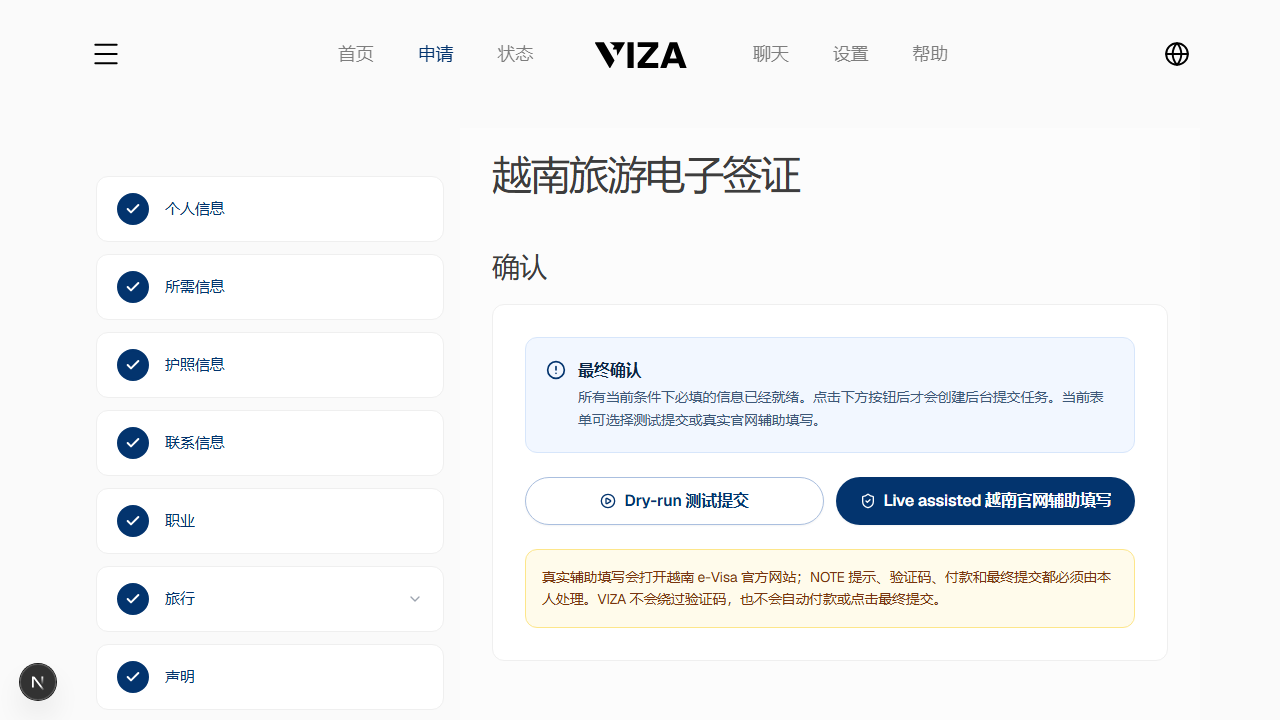
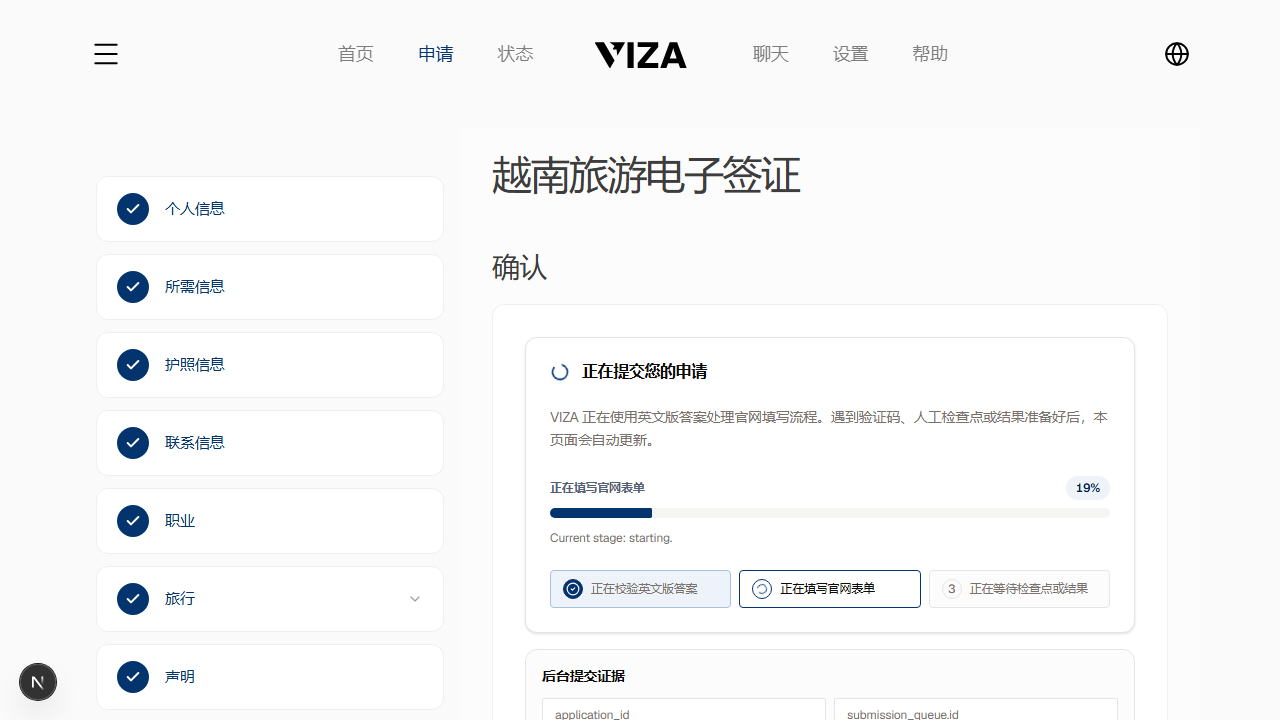
Implement Fr

diff --git a/viza-be/submission-service/src/vietnam/run.ts b/viza-be/submission-service/src/vietnam/run.ts
@@ -25,6 +25,7 @@ import {
 import { fillDate, fillText, pickRadio, pickSelect, tickCheckbox, toDdMmYyyy } from "./fillers";
 import {
   classifyVietnamPortalSnapshot,
+  isAutoAcknowledgeableVietnamPortalState,
   readVietnamPortalSnapshot,
   waitForVietnamPortalCheckpoint,
   type VietnamPortalSnapshot,
@@ -427,14 +428,38 @@ async function reachVietnamFormCheckpoint(
       return { kind: "ready", checkpoint: state };
     }
 
-    if (state === "note_modal_visible") {
-      return {
-        kind: "action_required",
-        actionType: "note_modal_required",
-        checkpoint: state,
-        instruction:
-          "The official Vietnam e-Visa page is showing a NOTE declaration dialog. Read and acknowledge it manually in the official browser, then click Continue in VIZA.",
-      };
+    if (isAutoAcknowledgeableVietnamPortalState(state)) {
+      const acknowledged = await acknowledgeVietnamNoteModal(page);
+      if (!acknowledged) {
+        return {
+          kind: "action_required",
+          actionType: "note_modal_required",
+          checkpoint: state,
+          instruction:
+            "The official Vietnam e-Visa page is showing a NOTE declaration dialog, but VIZA could not find a safe acknowledgement control.",
+        };
+      }
+      const checkpoint = await waitForVietnamPortalCheckpoint(
+        page,
+        [
+          "form_ready",
+          "captcha_required",
+          "upload_required",
+          "payment_required",
+          "final_submit_required",
+          "official_portal_error",
+          "layout_changed",
+          "needs_manual_verification",
+        ],
+        {
+          timeoutMs: Math.min(options.stepTimeoutMs, 30_000),
+          failedRequestCount: options.failedRequestCount,
+          mainRequestFailed: options.mainRequestFailed,
+          onSnapshot: options.onSnapshot,
+        },
+      );
+      state = checkpoint.state;
+      continue;
     }
 
     if (state === "captcha_visible") {
@@ -580,6 +605,57 @@ async function clickVietnamApplyEntry(page: Page): Promise<boolean> {
       return true;
     })
     .catch(() => false);
+}
+
+async function acknowledgeVietnamNoteModal(page: Page): Promise<boolean> {
+  const ticked = await page
+    .evaluate(() => {
+      const visible = (element: Element): boolean => {
+        const style = window.getComputedStyle(element);
+        const rect = element.getBoundingClientRect();
+        return style.visibility !== "hidden" && style.display !== "none" && rect.width > 0 && rect.height > 0;
+      };
+      let count = 0;
+      for (const element of Array.from(document.querySelectorAll<HTMLElement>(".ant-checkbox-wrapper, label, input[type='checkbox']"))) {
+        if (!visible(element)) continue;
+        const input =
+          element instanceof HTMLInputElement && element.type === "checkbox"
+            ? element
+            : element.querySelector<HTMLInputElement>("input[type='checkbox']");
+        if (input?.checked) continue;
+        element.click();
+        count++;
+      }
+      return count;
+    })
+    .catch(() => 0);
+
+  const clicked = await page
+    .evaluate(() => {
+      const visible = (element: Element): boolean => {
+        const style = window.getComputedStyle(element);
+        const rect = element.getBoundingClientRect();
+        return style.visibility !== "hidden" && style.display !== "none" && rect.width > 0 && rect.height > 0;
+      };
+      const buttons = Array.from(document.querySelectorAll<HTMLElement>("button, [role='button']"));
+      const button = buttons.find((element) => {
+        if (!visible(element)) return false;
+        if (element.getAttribute("disabled") !== null || element.getAttribute("aria-disabled") === "true") {
+          return false;
+        }
+        const text = (element.innerText || element.textContent || "").replace(/\s+/g, " ").trim();
+        return /^(next|ok|confirm|accept|agree|continue|tiếp tục|đồng ý)$/i.test(text);
+      });
+      if (!button) return false;
+      button.click();
+      return true;
+    })
+    .catch(() => false);
+
+  if (!clicked) return false;
+  await page.waitForLoadState("domcontentloaded", { timeout: 10_000 }).catch(() => undefined);
+  await page.waitForTimeout(ticked > 0 ? 2_000 : 1_000);
+  return true;
 }
 
 async function fillByType(

diff --git a/viza-be/submission-service/src/ceac/orchestrator.ts b/viza-be/submission-service/src/ceac/orchestrator.ts
@@ -430,6 +430,18 @@ export async function orchestrateFill(
           return { result, datArtifact, sectionCoverage: { filled: sectionsFilled, skipped: sectionsSkipped } };
         }
 
+        if (options.finalSubmit?.passportNumber) {
+          console.log(
+            `[orchestrator] Sign certification page detected — advancing to final signature controls`,
+          );
+          await advance(page, {
+            from: "sign_and_submit",
+            to: ["sign_and_submit", "confirmation"],
+          });
+          transitions++;
+          continue;
+        }
+
         // Heading + URL match but strict markers (signature input,
         // final submit) absent — typical for the SignCertify
         // attestation page that precedes the actual signature.

diff --git a/viza-be/submission-service/src/vietnam/__tests__/portal-state.spec.ts b/viza-be/submission-service/src/vietnam/__tests__/portal-state.spec.ts
@@ -4,6 +4,7 @@ import {
   classifyVietnamPortalSnapshot,
   checkpointForVietnamPortalState,
   extractVietnamRegistrationCode,
+  isAutoAcknowledgeableVietnamPortalState,
   type VietnamPortalSnapshot,
 } from "../portal-state";
 
@@ -82,6 +83,13 @@ test("Vietnam portal checkpoint mapper exposes manual action checkpoints", () =>
   assert.equal(checkpointForVietnamPortalState("payment_page_visible"), "payment_required");
   assert.equal(checkpointForVietnamPortalState("final_submit_visible"), "final_submit_required");
   assert.equal(checkpointForVietnamPortalState("white_screen"), "official_portal_error");
+});
+
+test("Vietnam portal state: NOTE is auto-acknowledgeable, payment and final submit are not", () => {
+  assert.equal(isAutoAcknowledgeableVietnamPortalState("note_modal_visible"), true);
+  assert.equal(isAutoAcknowledgeableVietnamPortalState("captcha_visible"), false);
+  assert.equal(isAutoAcknowledgeableVietnamPortalState("payment_page_visible"), false);
+  assert.equal(isAutoAcknowledgeableVietnamPortalState("final_submit_visible"), false);
 });
 
 test("Vietnam portal state: registration code extraction is explicit", () => {

diff --git a/viza-be/submission-service/src/vietnam/portal-state.ts b/viza-be/submission-service/src/vietnam/portal-state.ts
@@ -239,6 +239,10 @@ export function checkpointForVietnamPortalState(
   }
 }
 
+export function isAutoAcknowledgeableVietnamPortalState(state: VietnamPortalStateId): boolean {
+  return state === "note_modal_visible";
+}
+
 export async function waitForVietnamPortalCheckpoint(
   page: Page,
   expected: "any" | VietnamPortalCheckpoint | VietnamPortalCheckpoint[],